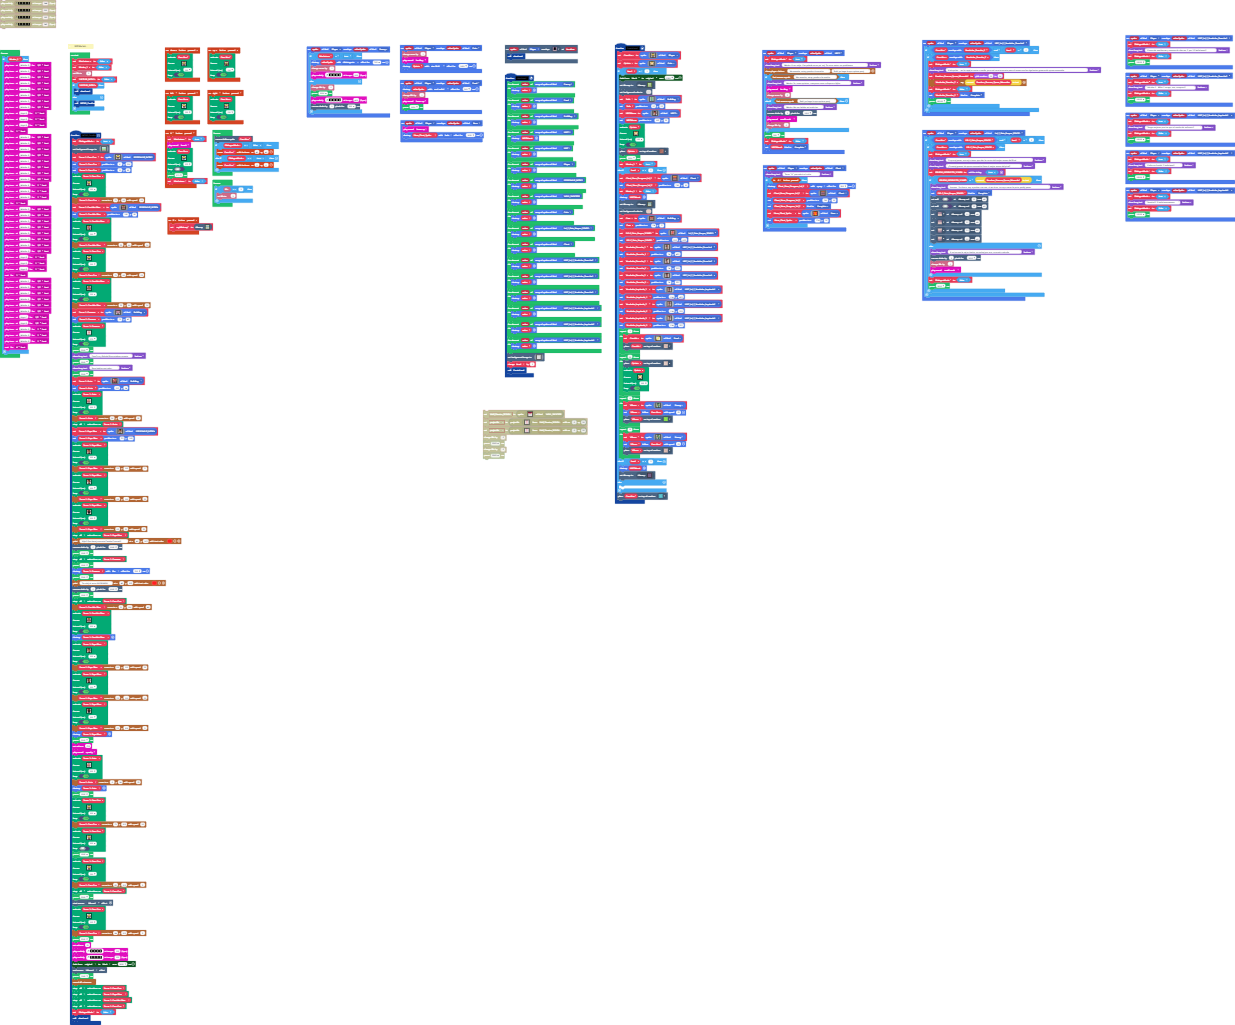
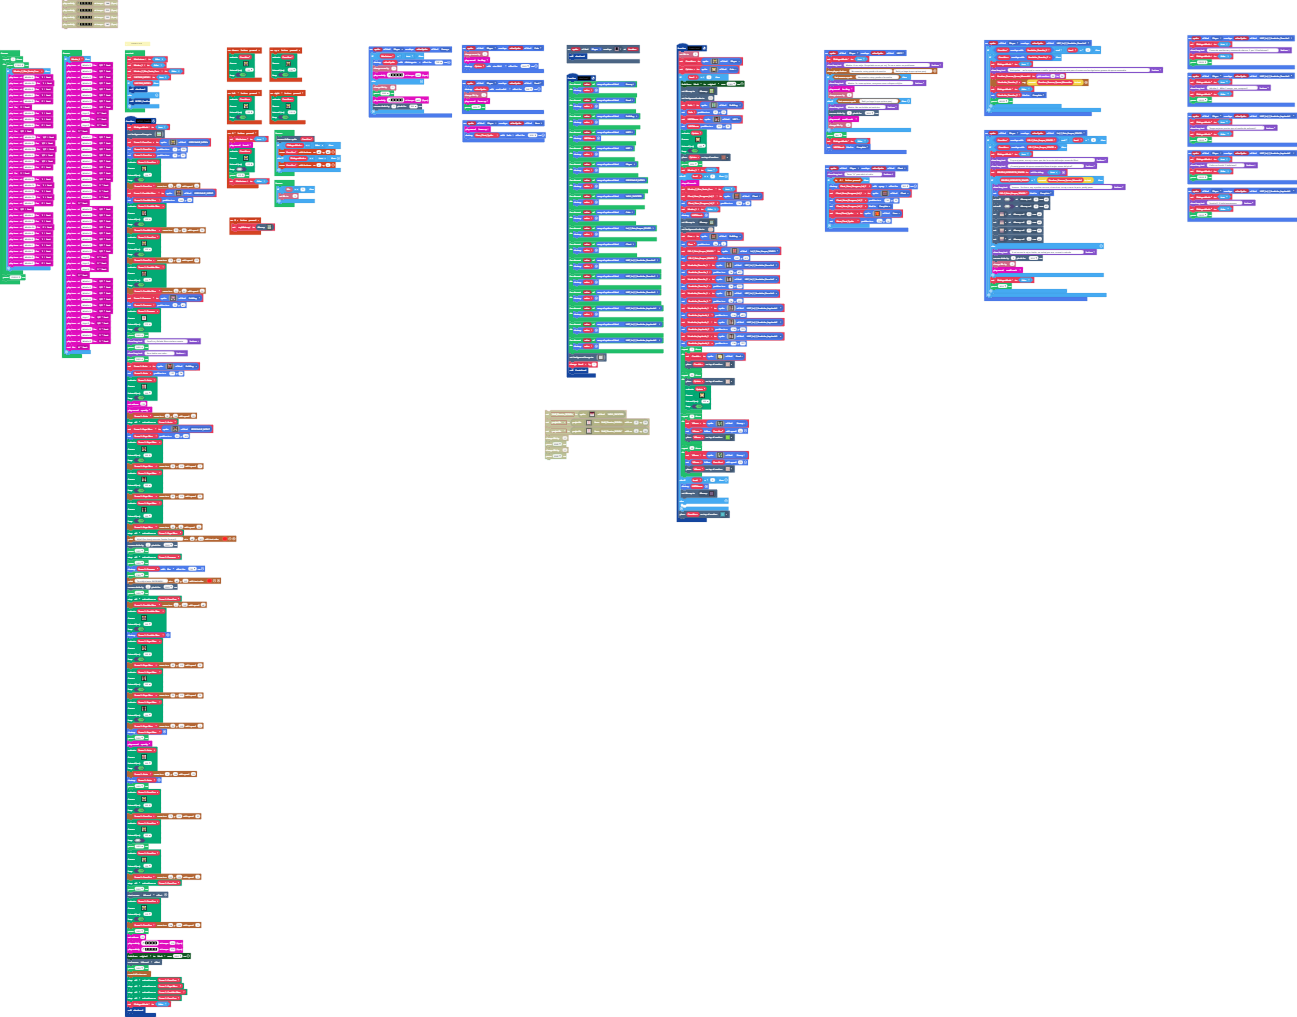
Update main.blocks, main.ts

Changed region(s): [[0.0, 0.0, 0.6154, 1.0], [0.6154, 0.0305, 1.0, 0.3048]]

diff --git a/main.ts b/main.ts
@@ -793,6 +793,8 @@ function INTRO_CamKun () {
     100,
     true
     )
+    music.setVolume(255)
+    music.spooky.play()
     story.spriteMoveToLocation(Scene_1_Auto, 90, 94, 20)
     animation.stopAnimation(animation.AnimationTypes.All, Scene_1_Auto)
     Scene_1_Papa_Bien = sprites.create(img`
@@ -1252,7 +1254,6 @@ function INTRO_CamKun () {
     story.spriteMoveToLocation(Scene_1_Papa_Bien, 89, 106, 5)
     Scene_1_Papa_Bien.destroy()
     pause(2000)
-    music.setVolume(255)
     music.spooky.play()
     animation.runImageAnimation(
     Scene_1_Auto,
@@ -1732,13 +1733,13 @@ function INTRO_CamKun () {
     true
     )
     story.spriteMoveToLocation(Scene_1_CamCun, 64, 103, 5)
-    pause(2000)
+    pause(1000)
     music.setVolume(20)
     music.playMelody("A G F - E D C - ", 120)
     music.playMelody("A G F - E D C - ", 120)
     color.startFade(color.originalPalette, color.Black, 3000)
     effects.blizzard.endScreenEffect()
-    pause(1300)
+    pause(1000)
     story.cancelAllCutscenes()
     animation.stopAnimation(animation.AnimationTypes.All, Scene_1_CamCun)
     animation.stopAnimation(animation.AnimationTypes.All, Scene_1_Papa_Bien)
@@ -2093,6 +2094,7 @@ controller.right.onEvent(ControllerButtonEvent.Pressed, function () {
     )
 })
 function CreateLevel () {
+    info.setLife(3)
     CamKun = sprites.create(img`
         . . . . . . c c c . . . . . . . 
         . . . . . . c 5 b c . . . . . . 
@@ -2235,6 +2237,8 @@ function CreateLevel () {
         pause(1000)
         Musica_1 = true
     } else if (level == 2) {
+        music.stopAllSounds()
+        Musica_2_Viva_Santa_Cruz = true
         Chest_Llave_Dungeon_Lvl_2 = sprites.create(img`
             . . b b b b b b b b b b b b . . 
             . b e 4 4 4 4 4 4 4 4 4 4 e b . 
@@ -2961,17 +2965,58 @@ let DialogueMode = false
 let level = 0
 let Vendedor_Derecha_2: Sprite = null
 let CamKun: Sprite = null
+let Musica_2_Viva_Santa_Cruz = false
 let Musica_1 = false
 let Machetazo = false
 Machetazo = false
 Musica_1 = false
-info.setLife(3)
-let SALTEAR_INTRO = false
+Musica_2_Viva_Santa_Cruz = false
+let SALTEAR_INTRO = true
 if (SALTEAR_INTRO) {
     clearLevel()
 } else {
     INTRO_CamKun()
 }
+forever(function () {
+    for (let index = 0; index < 1; index++) {
+        pause(27000)
+        if (Musica_2_Viva_Santa_Cruz) {
+            music.playTone(440, music.beat(BeatFraction.Whole))
+            music.playTone(415, music.beat(BeatFraction.Whole))
+            music.playTone(440, music.beat(BeatFraction.Whole))
+            music.playTone(349, music.beat(BeatFraction.Whole))
+            music.playTone(294, music.beat(BeatFraction.Double))
+            music.rest(music.beat(BeatFraction.Whole))
+            music.playTone(294, music.beat(BeatFraction.Whole))
+            music.playTone(349, music.beat(BeatFraction.Whole))
+            music.playTone(440, music.beat(BeatFraction.Double))
+            music.rest(music.beat(BeatFraction.Half))
+            music.playTone(415, music.beat(BeatFraction.Half))
+            music.playTone(440, music.beat(BeatFraction.Half))
+            music.playTone(415, music.beat(BeatFraction.Half))
+            music.playTone(440, music.beat(BeatFraction.Half))
+            music.playTone(349, music.beat(BeatFraction.Half))
+            music.playTone(330, music.beat(BeatFraction.Double))
+            music.rest(music.beat(BeatFraction.Whole))
+            music.playTone(294, music.beat(BeatFraction.Whole))
+            music.playTone(277, music.beat(BeatFraction.Whole))
+            music.playTone(294, music.beat(BeatFraction.Whole))
+            music.playTone(277, music.beat(BeatFraction.Whole))
+            music.playTone(262, music.beat(BeatFraction.Double))
+            music.rest(music.beat(BeatFraction.Half))
+            music.playTone(330, music.beat(BeatFraction.Whole))
+            music.playTone(440, music.beat(BeatFraction.Whole))
+            music.playTone(415, music.beat(BeatFraction.Double))
+            music.playTone(440, music.beat(BeatFraction.Whole))
+            music.playTone(494, music.beat(BeatFraction.Whole))
+            music.playTone(349, music.beat(BeatFraction.Whole))
+            music.playTone(330, music.beat(BeatFraction.Whole))
+            music.playTone(294, music.beat(BeatFraction.Whole))
+            music.playTone(262, music.beat(BeatFraction.Double))
+        }
+    }
+    pause(120000)
+})
 forever(function () {
     if (Musica_1) {
         music.playTone(294, music.beat(BeatFraction.Half))
